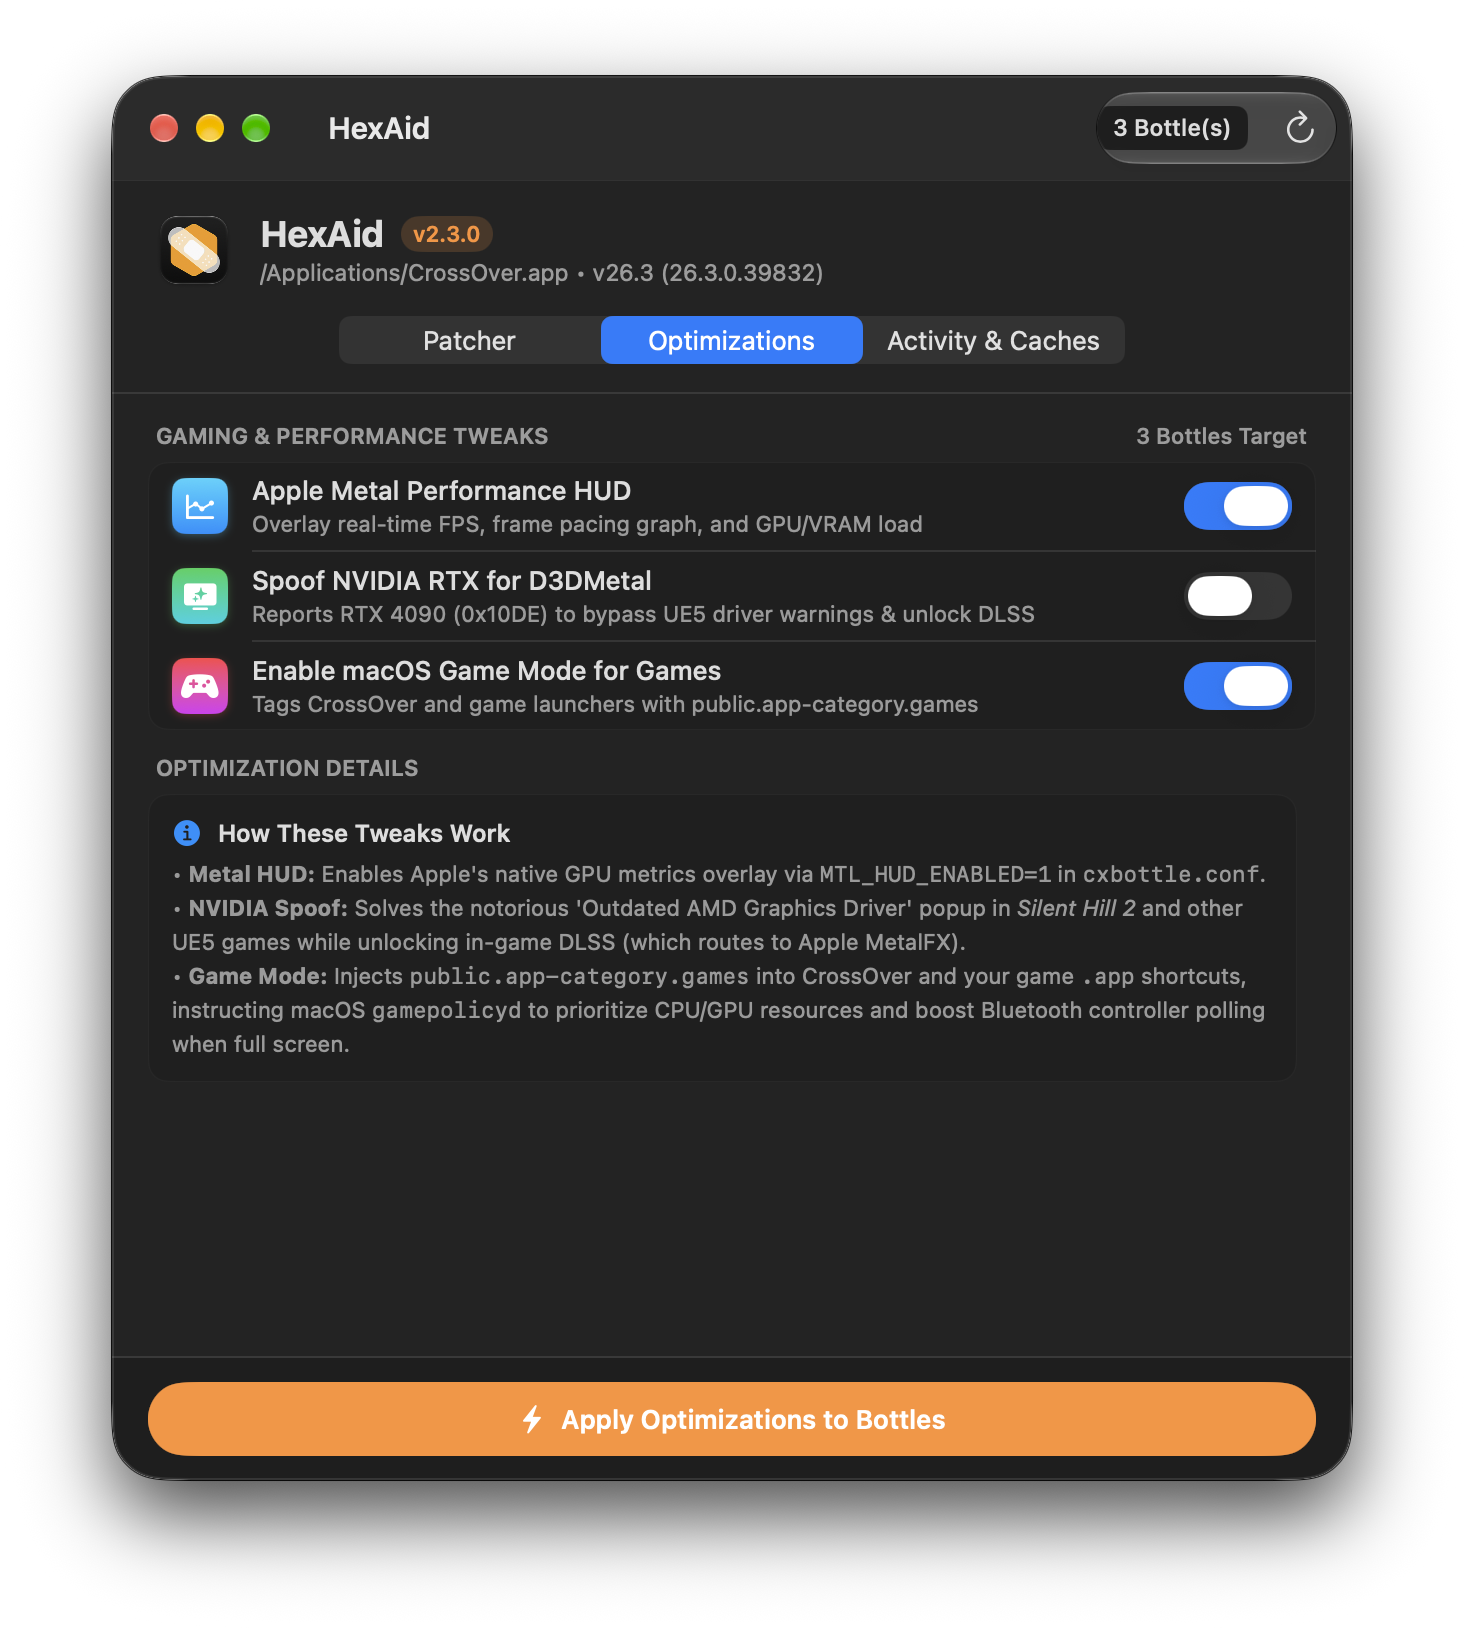
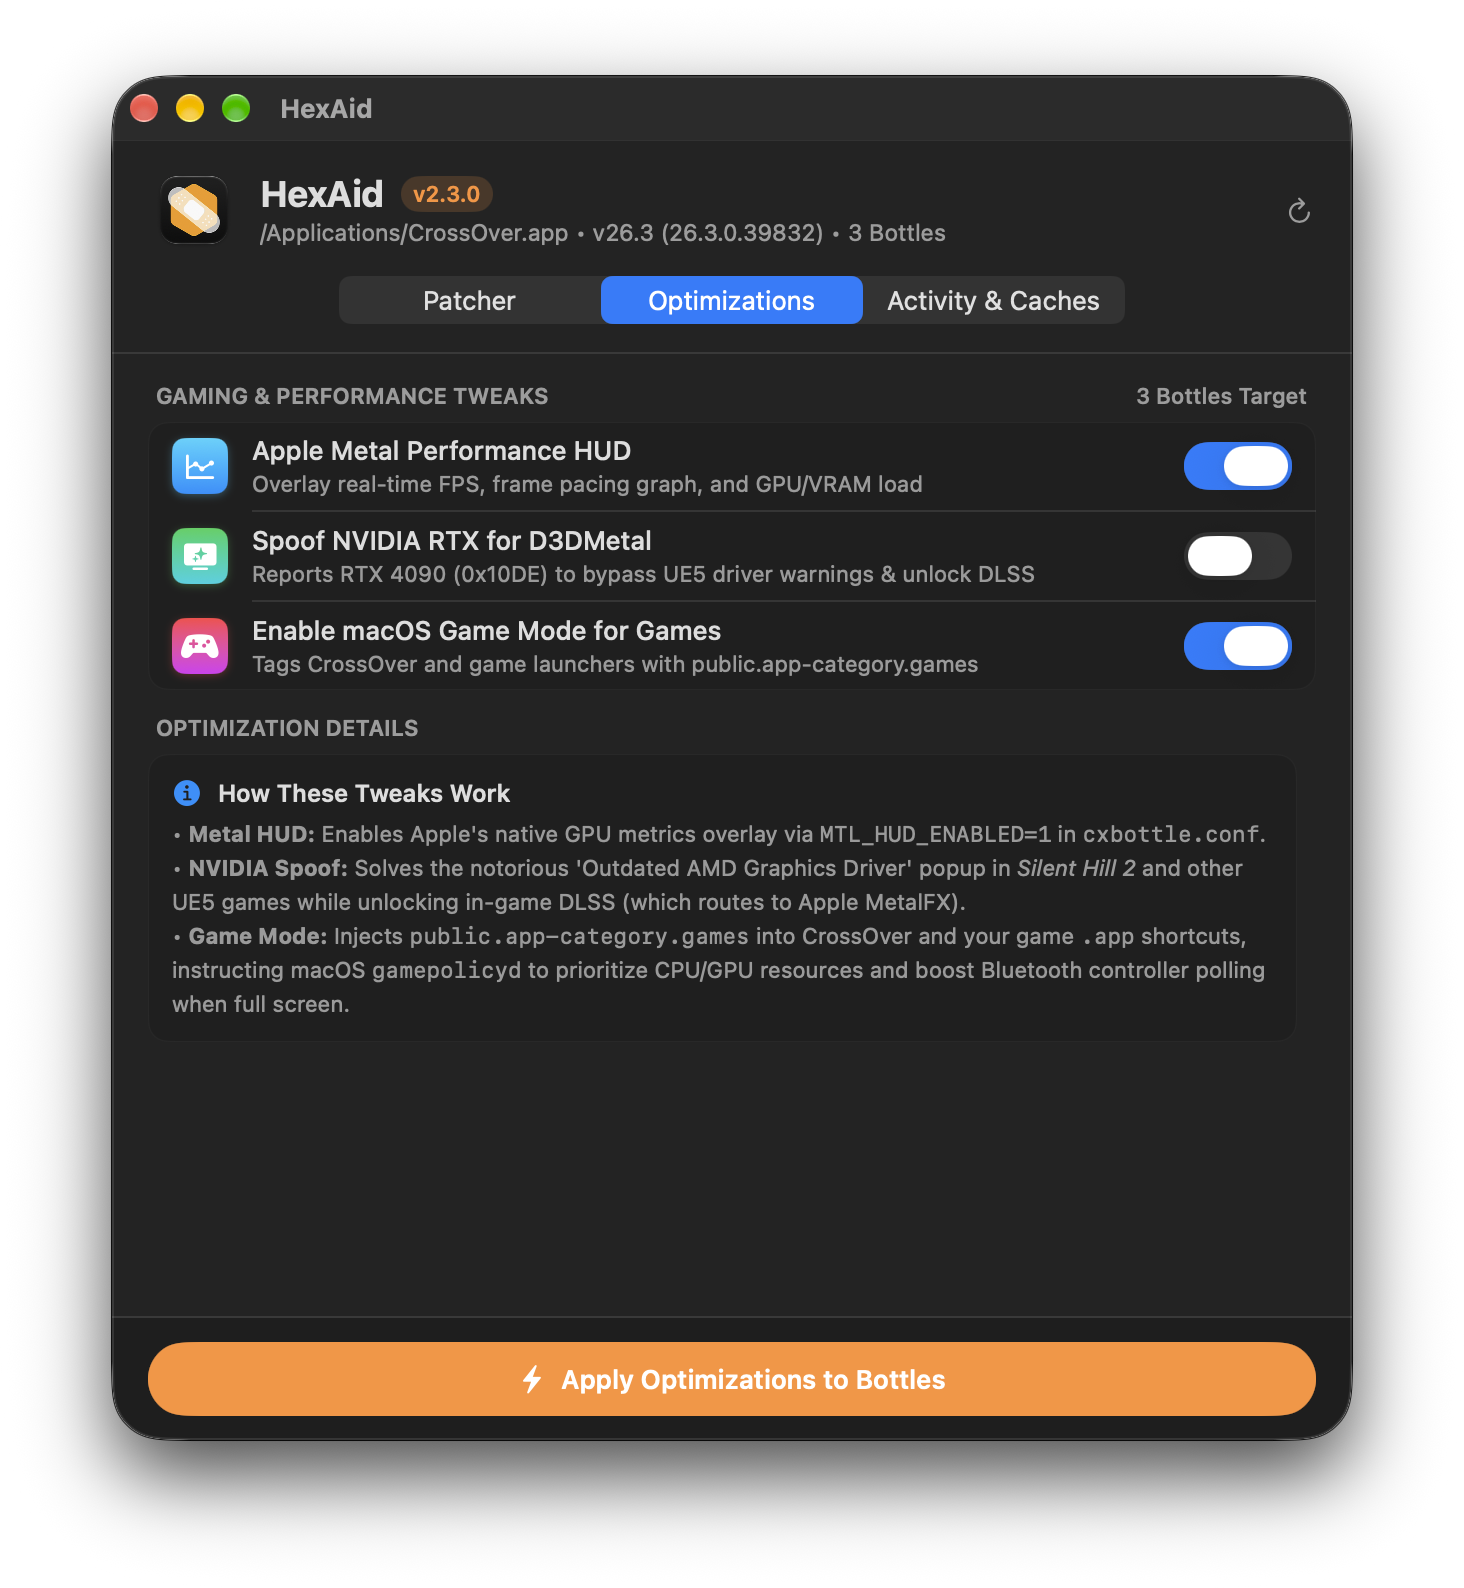
Refine titlebar by moving bottle status into subheader metadata

diff --git a/Sources/main.swift b/Sources/main.swift
@@ -645,12 +645,22 @@ struct ContentView: View {
                             .foregroundColor(.orange)
                             .clipShape(Capsule())
                     }
-                    Text("/Applications/CrossOver.app • v\(vm.status.versionString)")
+                    Text("/Applications/CrossOver.app • v\(vm.status.versionString) • \(vm.status.bottleCount) Bottle\(vm.status.bottleCount == 1 ? "" : "s")")
                         .font(.system(size: 11.5))
                         .foregroundColor(.secondary)
                 }
 
                 Spacer()
+
+                Button(action: { vm.refreshStatus() }) {
+                    Image(systemName: "arrow.clockwise")
+                        .font(.system(size: 12, weight: .medium))
+                        .foregroundColor(.secondary)
+                }
+                .buttonStyle(.plain)
+                .keyboardShortcut("r", modifiers: .command)
+                .disabled(vm.isBusy)
+                .help("Refresh status (⌘R)")
             }
             .padding(.horizontal, 20)
             .padding(.top, 14)
@@ -751,26 +761,6 @@ struct ContentView: View {
         }
         .frame(minWidth: 620, idealWidth: 620, maxWidth: .infinity,
                minHeight: 650, idealHeight: 670, maxHeight: .infinity)
-        .toolbar {
-            ToolbarItem(placement: .primaryAction) {
-                HStack(spacing: 8) {
-                    Text("\(vm.status.bottleCount) Bottle(s)")
-                        .font(.system(size: 11.5, weight: .medium))
-                        .padding(.horizontal, 8)
-                        .padding(.vertical, 4)
-                        .background(Color(nsColor: .controlBackgroundColor))
-                        .clipShape(RoundedRectangle(cornerRadius: 6, style: .continuous))
-
-                    Button(action: { vm.refreshStatus() }) {
-                        Image(systemName: "arrow.clockwise")
-                            .font(.system(size: 12, weight: .medium))
-                    }
-                    .buttonStyle(.bordered)
-                    .disabled(vm.isBusy)
-                    .help("Refresh component status")
-                }
-            }
-        }
         .onAppear {
             vm.refreshStatus()
         }
